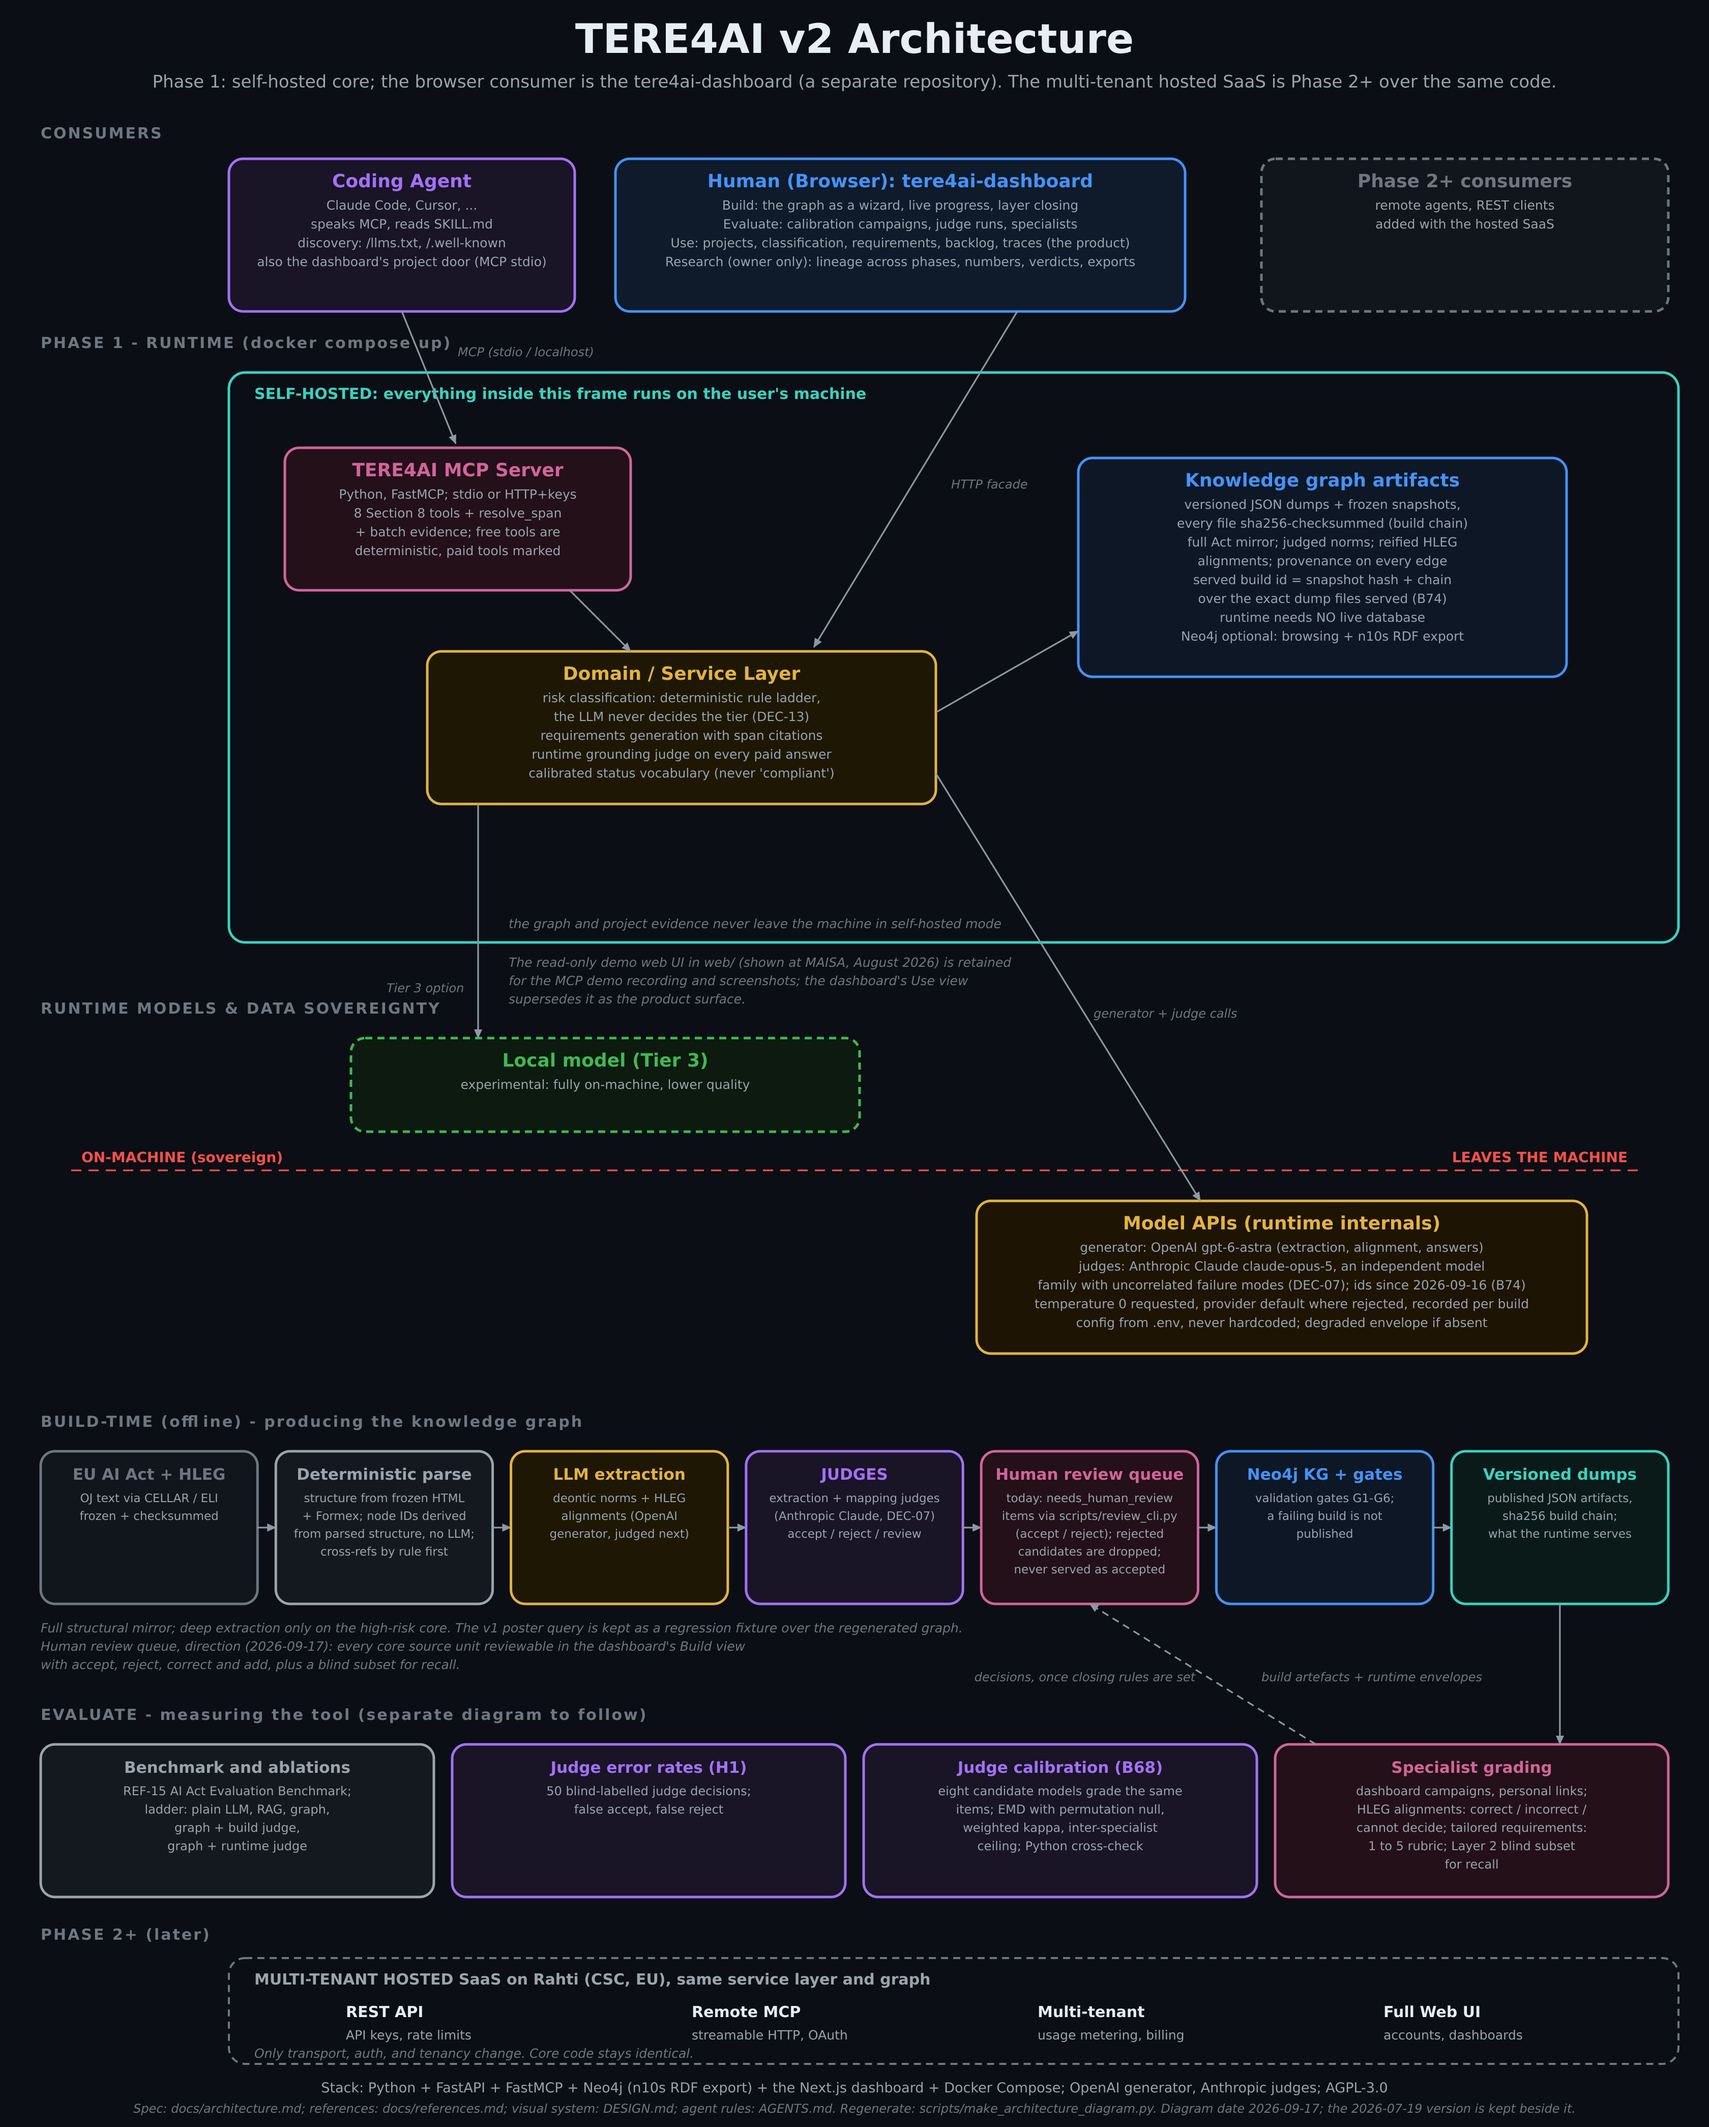
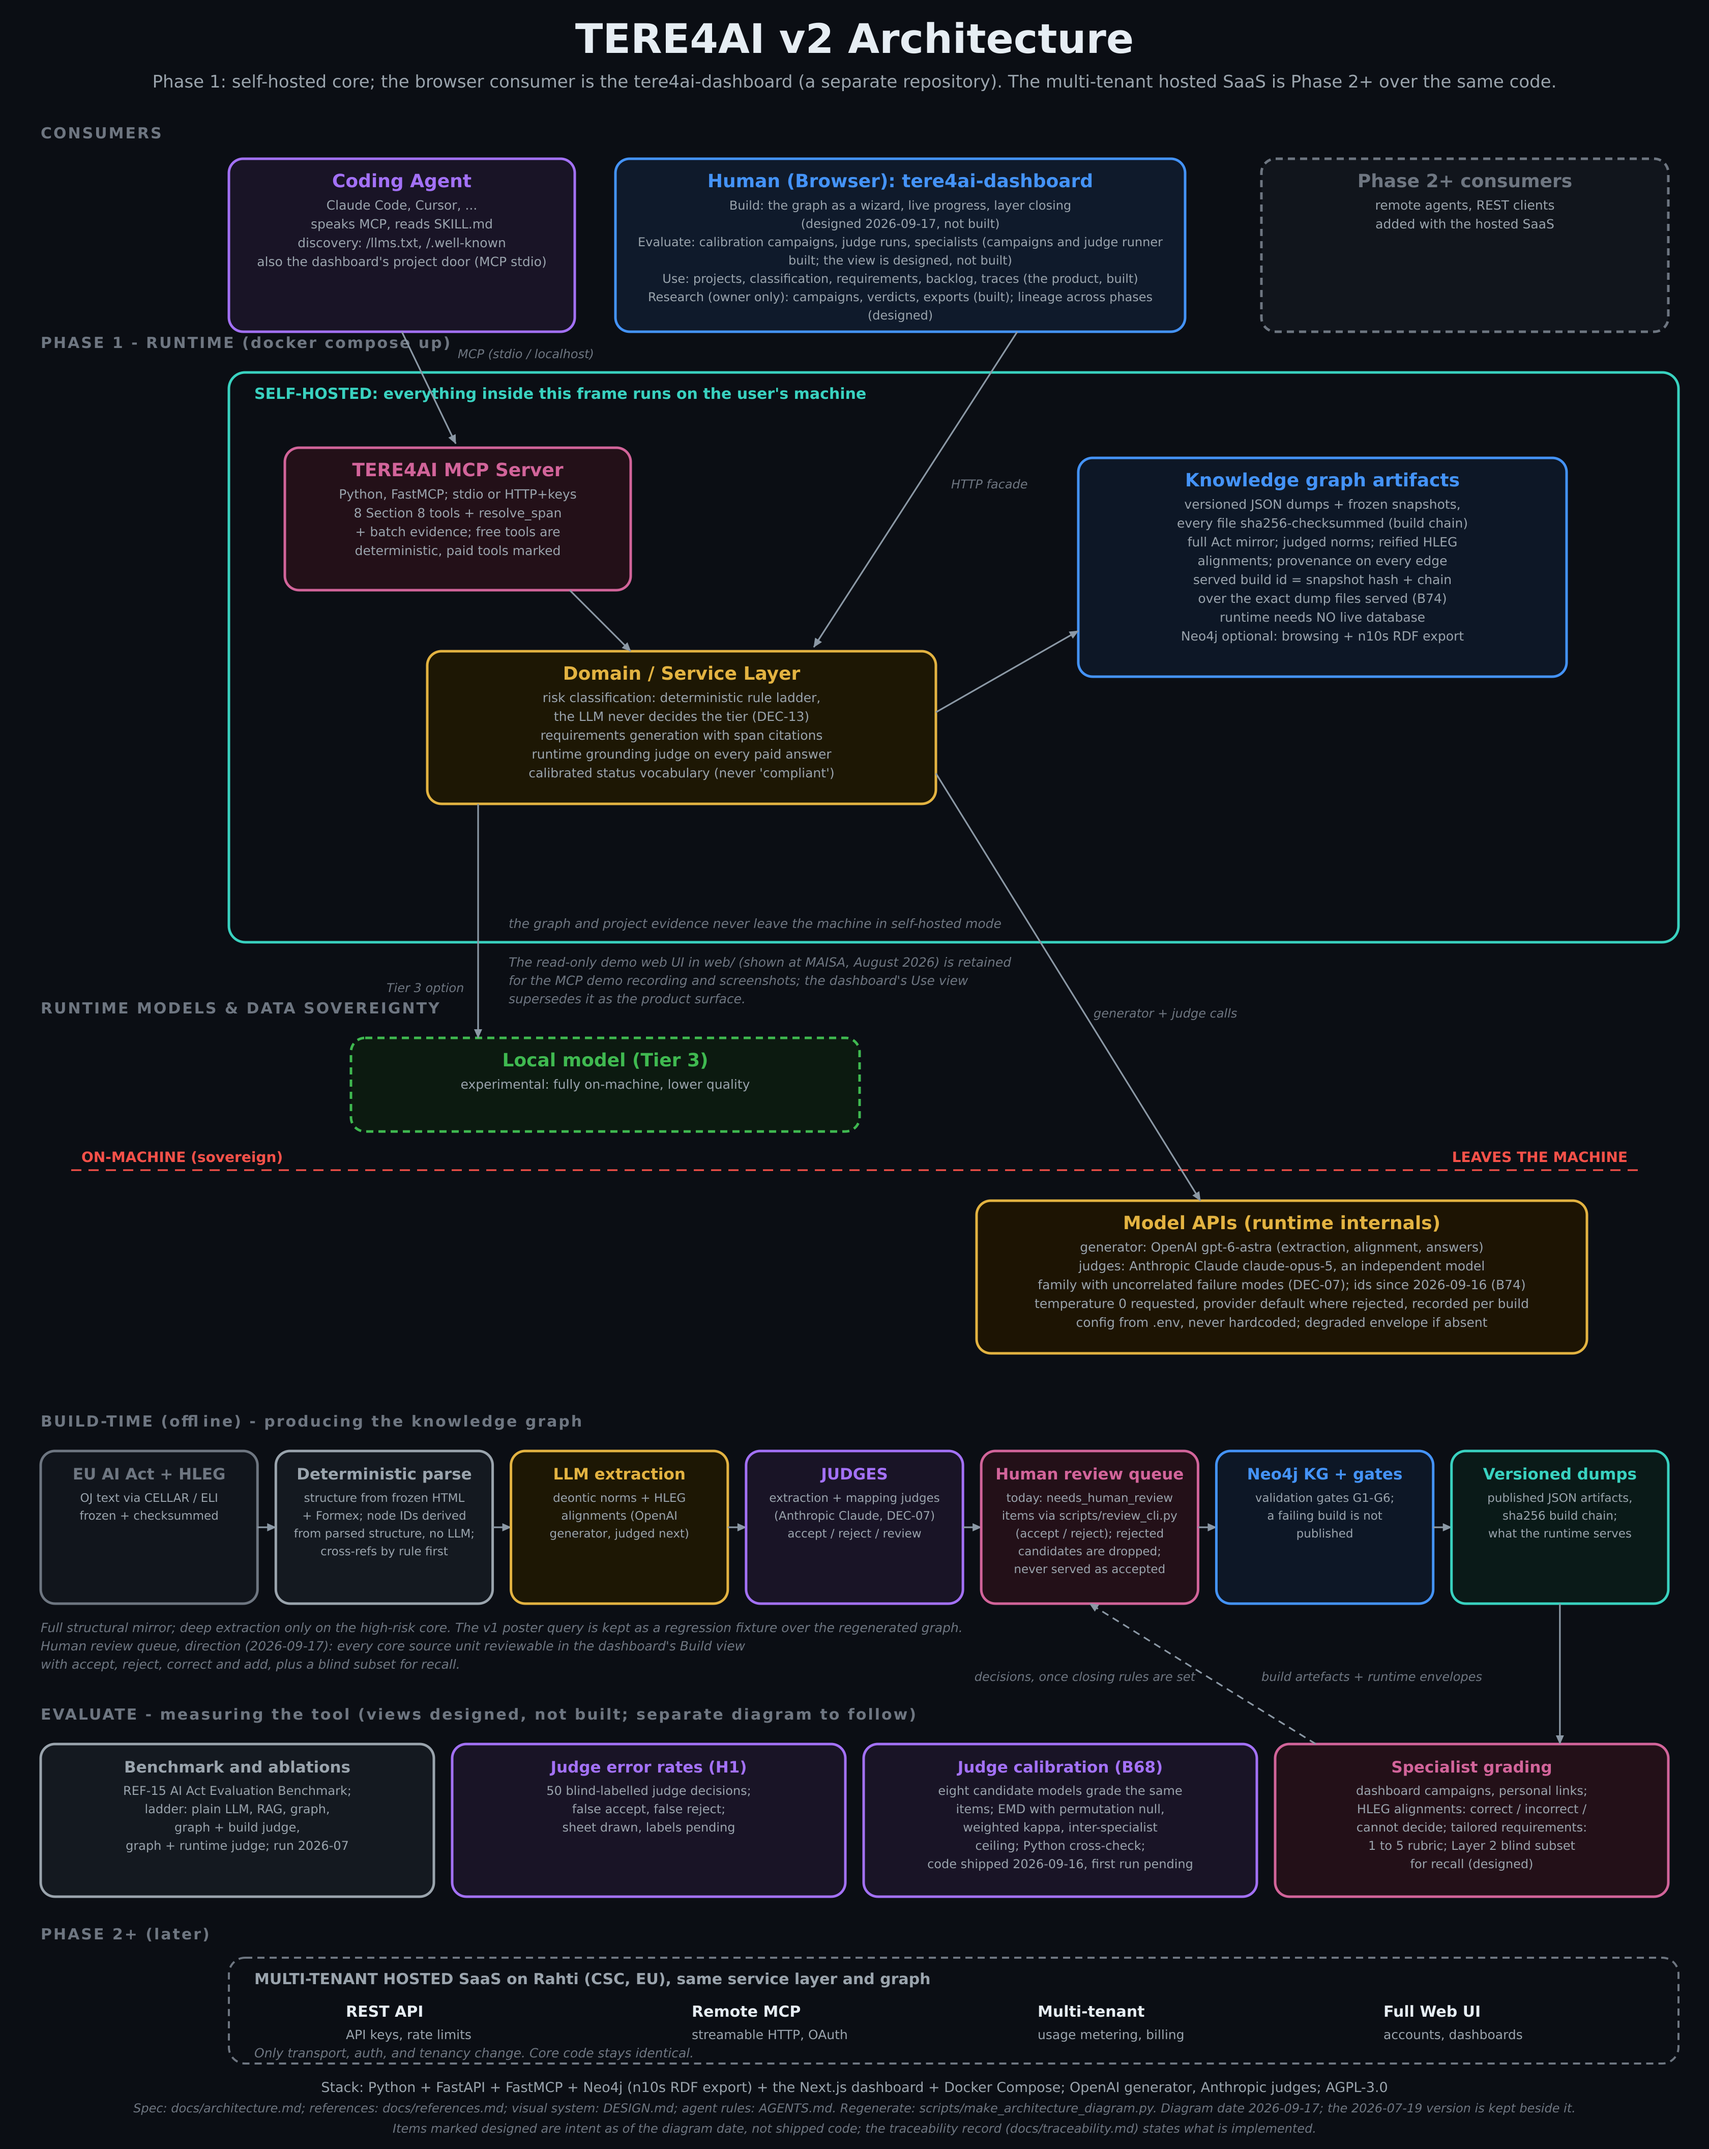
Architecture diagram 2026-09-17: mark designed views and pending evaluation items as such
AGENTS.md honesty rule: never present planned work as implemented. The
browser consumer box now states per view what is built and what is
designed (Build: designed 2026-09-17, not built; Evaluate: campaigns and
judge runner built, view designed; Use: built; Research: built, lineage
designed). The Evaluate strip is headed 'views designed, not built' and
each box carries its status (blind subset designed; B68 code shipped
2026-09-16, first run pending; H1 sheet drawn, labels pending; benchmark
run 2026-07). The credit line says designed items are intent as of the
diagram date, not shipped code, and points at docs/traceability.md. The
mermaid companion carries the same marks; the architecture test requires
them. Consumer boxes re-sized so nothing collides; no arrow crosses text.

ruff clean; the three diagram tests pass (9 passed); web build compiles.

diff --git a/scripts/make_architecture_diagram.py b/scripts/make_architecture_diagram.py
@@ -35,7 +35,7 @@ from __future__ import annotations
 
 from pathlib import Path
 
-W, H = 1680, 2090
+W, H = 1680, 2112
 FONT = "DejaVu Sans, sans-serif"
 BG = "#0b0e14"
 INK = "#e6edf3"
@@ -150,23 +150,28 @@ def build() -> str:
 
     # Consumers
     zone_label(40, 136, "CONSUMERS")
+    # Status per view is stated on the diagram (AGENTS.md honesty rule):
+    # designed items are intent as of DIAGRAM_DATE, never shipped code.
     box(
-        225, 156, 340, 150, "Coding Agent",
+        225, 156, 340, 170, "Coding Agent",
         ["Claude Code, Cursor, ...", "speaks MCP, reads SKILL.md",
          "discovery: /llms.txt, /.well-known",
          "also the dashboard's project door (MCP stdio)"],
         "#a371f7", "#191426",
     )
     box(
-        605, 156, 560, 150, "Human (Browser): tere4ai-dashboard",
+        605, 156, 560, 170, "Human (Browser): tere4ai-dashboard",
         ["Build: the graph as a wizard, live progress, layer closing",
-         "Evaluate: calibration campaigns, judge runs, specialists",
-         "Use: projects, classification, requirements, backlog, traces (the product)",
-         "Research (owner only): lineage across phases, numbers, verdicts, exports"],
-        "#4493f8", "#0f1a2b",
+         "(designed 2026-09-17, not built)",
+         "Evaluate: calibration campaigns, judge runs, specialists (campaigns and judge runner",
+         "built; the view is designed, not built)",
+         "Use: projects, classification, requirements, backlog, traces (the product, built)",
+         "Research (owner only): campaigns, verdicts, exports (built); lineage across phases",
+         "(designed)"],
+        "#4493f8", "#0f1a2b", line_size=12,
     )
     box(
-        1240, 156, 400, 150, "Phase 2+ consumers",
+        1240, 156, 400, 170, "Phase 2+ consumers",
         ["remote agents, REST clients", "added with the hosted SaaS"],
         "#6e7681", "#11151c", dashed=True,
     )
@@ -180,8 +185,8 @@ def build() -> str:
     text(250, 392, "SELF-HOSTED: everything inside this frame runs on the user's machine",
          size=15, fill="#39d2c0", anchor="start", weight="bold")
 
-    arrow(395, 306, 448, 436, "MCP (stdio / localhost)", lx=450, ly=350)
-    arrow(1000, 306, 800, 636, "HTTP facade", lx=935, ly=480)
+    arrow(395, 326, 448, 436, "MCP (stdio / localhost)", lx=450, ly=352)
+    arrow(1000, 326, 800, 636, "HTTP facade", lx=935, ly=480)
 
     box(
         280, 440, 340, 140, "TERE4AI MCP Server",
@@ -298,14 +303,14 @@ def build() -> str:
 
     # Evaluate lane. Specialist grading sits under the human review queue and
     # the versioned dumps so both cross-lane arrows stay clear of the notes.
-    zone_label(40, 1690, "EVALUATE - measuring the tool (separate diagram to follow)")
+    zone_label(40, 1690, "EVALUATE - measuring the tool (views designed, not built; separate diagram to follow)")
     eval_y = 1714
     eval_h = 150
     eboxes = [
-        ("Benchmark and ablations", ["REF-15 AI Act Evaluation Benchmark;", "ladder: plain LLM, RAG, graph,", "graph + build judge,", "graph + runtime judge"], "#9aa4ad", "#141920"),
-        ("Judge error rates (H1)", ["50 blind-labelled judge decisions;", "false accept, false reject"], "#a371f7", "#191426"),
-        ("Judge calibration (B68)", ["eight candidate models grade the same", "items; EMD with permutation null,", "weighted kappa, inter-specialist", "ceiling; Python cross-check"], "#a371f7", "#191426"),
-        ("Specialist grading", ["dashboard campaigns, personal links;", "HLEG alignments: correct / incorrect /", "cannot decide; tailored requirements:", "1 to 5 rubric; Layer 2 blind subset", "for recall"], "#d2649a", "#231018"),
+        ("Benchmark and ablations", ["REF-15 AI Act Evaluation Benchmark;", "ladder: plain LLM, RAG, graph,", "graph + build judge,", "graph + runtime judge; run 2026-07"], "#9aa4ad", "#141920"),
+        ("Judge error rates (H1)", ["50 blind-labelled judge decisions;", "false accept, false reject;", "sheet drawn, labels pending"], "#a371f7", "#191426"),
+        ("Judge calibration (B68)", ["eight candidate models grade the same", "items; EMD with permutation null,", "weighted kappa, inter-specialist", "ceiling; Python cross-check;", "code shipped 2026-09-16, first run pending"], "#a371f7", "#191426"),
+        ("Specialist grading", ["dashboard campaigns, personal links;", "HLEG alignments: correct / incorrect /", "cannot decide; tailored requirements:", "1 to 5 rubric; Layer 2 blind subset", "for recall (designed)"], "#d2649a", "#231018"),
     ]
     en = len(eboxes)
     ebw = (W - 80 - gap * (en - 1)) / en
@@ -352,6 +357,10 @@ def build() -> str:
          "Spec: docs/architecture.md; references: docs/references.md; visual system: "
          "DESIGN.md; agent rules: AGENTS.md. Regenerate: scripts/make_architecture_diagram.py. "
          f"Diagram date {DIAGRAM_DATE}; the 2026-07-19 version is kept beside it.",
+         size=12, fill=FAINT, style="italic")
+    text(W / 2, 2096,
+         "Items marked designed are intent as of the diagram date, not shipped code; "
+         "the traceability record (docs/traceability.md) states what is implemented.",
          size=12, fill=FAINT, style="italic")
 
     _parts.append("</svg>")

diff --git a/tests/unit/test_architecture_diagram.py b/tests/unit/test_architecture_diagram.py
@@ -42,6 +42,9 @@ DECIDED_FACTS = (
     "tere4ai-dashboard",
     "EVALUATE",
     "Research",
+    # Planned surfaces are marked as such on the diagram (honesty rule).
+    "designed 2026-09-17, not built",
+    "not shipped code",
 )
 
 

diff --git a/CHANGELOG.md b/CHANGELOG.md
@@ -25,6 +25,11 @@ versions are git tags. Dates are build dates (Europe/Helsinki).
   queue box states what the code does today and the agreed direction.
 - To follow, with the four-views design: a separate evaluation diagram and
   a new judge diagram (the 2026-07-20 one predates B74 and B68).
+- Status is stated on the diagram (AGENTS.md honesty rule): every view and
+  Evaluate item is marked built, designed, run or pending, and the credit
+  line says that designed items are intent as of the diagram date, not
+  shipped code; docs/traceability.md states what is implemented. The
+  architecture test requires those marks.
 
 ### Models and build identity (2026-09-16, B74)
 - Production models moved to `gpt-6-astra` (generator) and `claude-opus-5`
